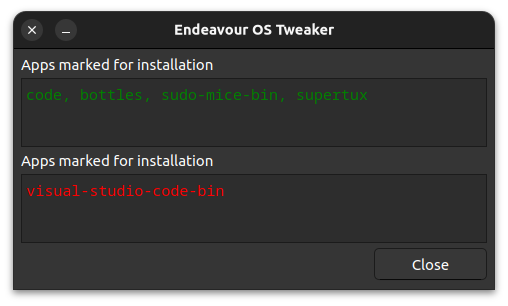
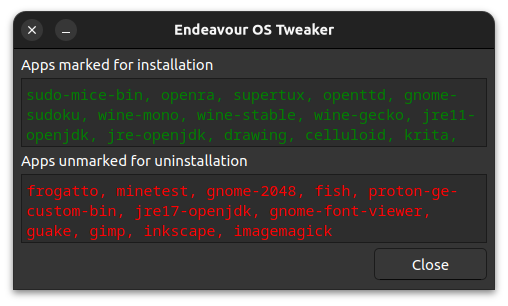
fix: uninstallation typo

diff --git a/GUI/Tasks.py b/GUI/Tasks.py
@@ -17,7 +17,7 @@ class TasksModal(QWidget):
         self.lblInstall = QLabel("Apps marked for installation")
         self.lstInstall = QPlainTextEdit(self)
 
-        self.lblUninstall = QLabel("Apps marked for installation")
+        self.lblUninstall = QLabel("Apps unmarked for uninstallation")
         self.lstUninstall = QPlainTextEdit(self)
 
         self.btnClose = QPushButton("Close", self)
